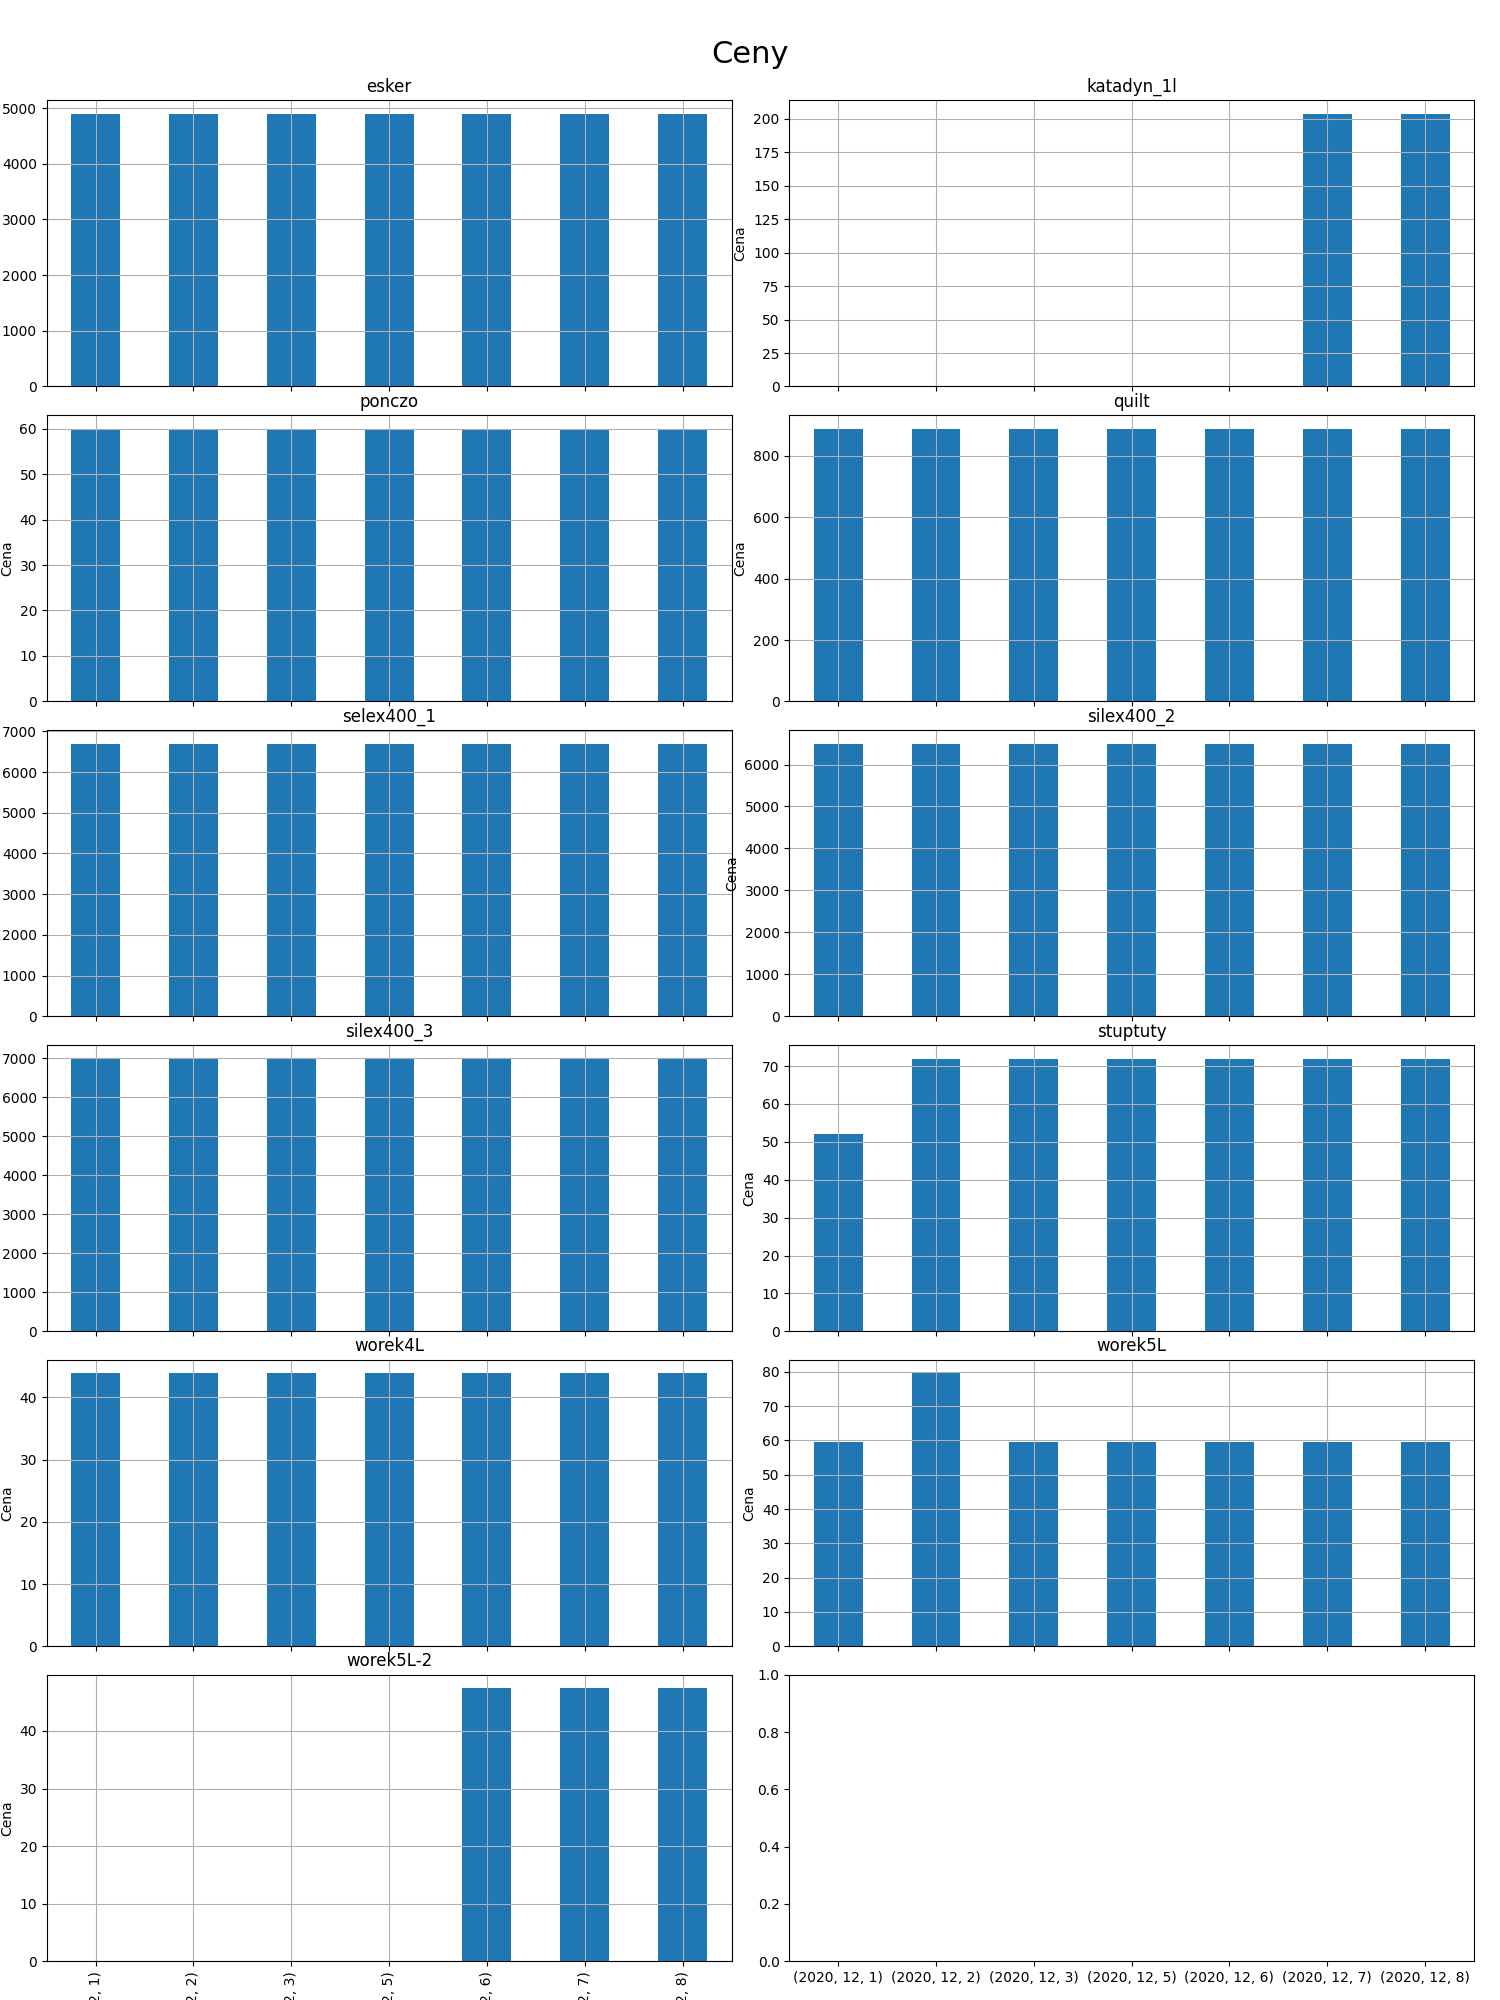
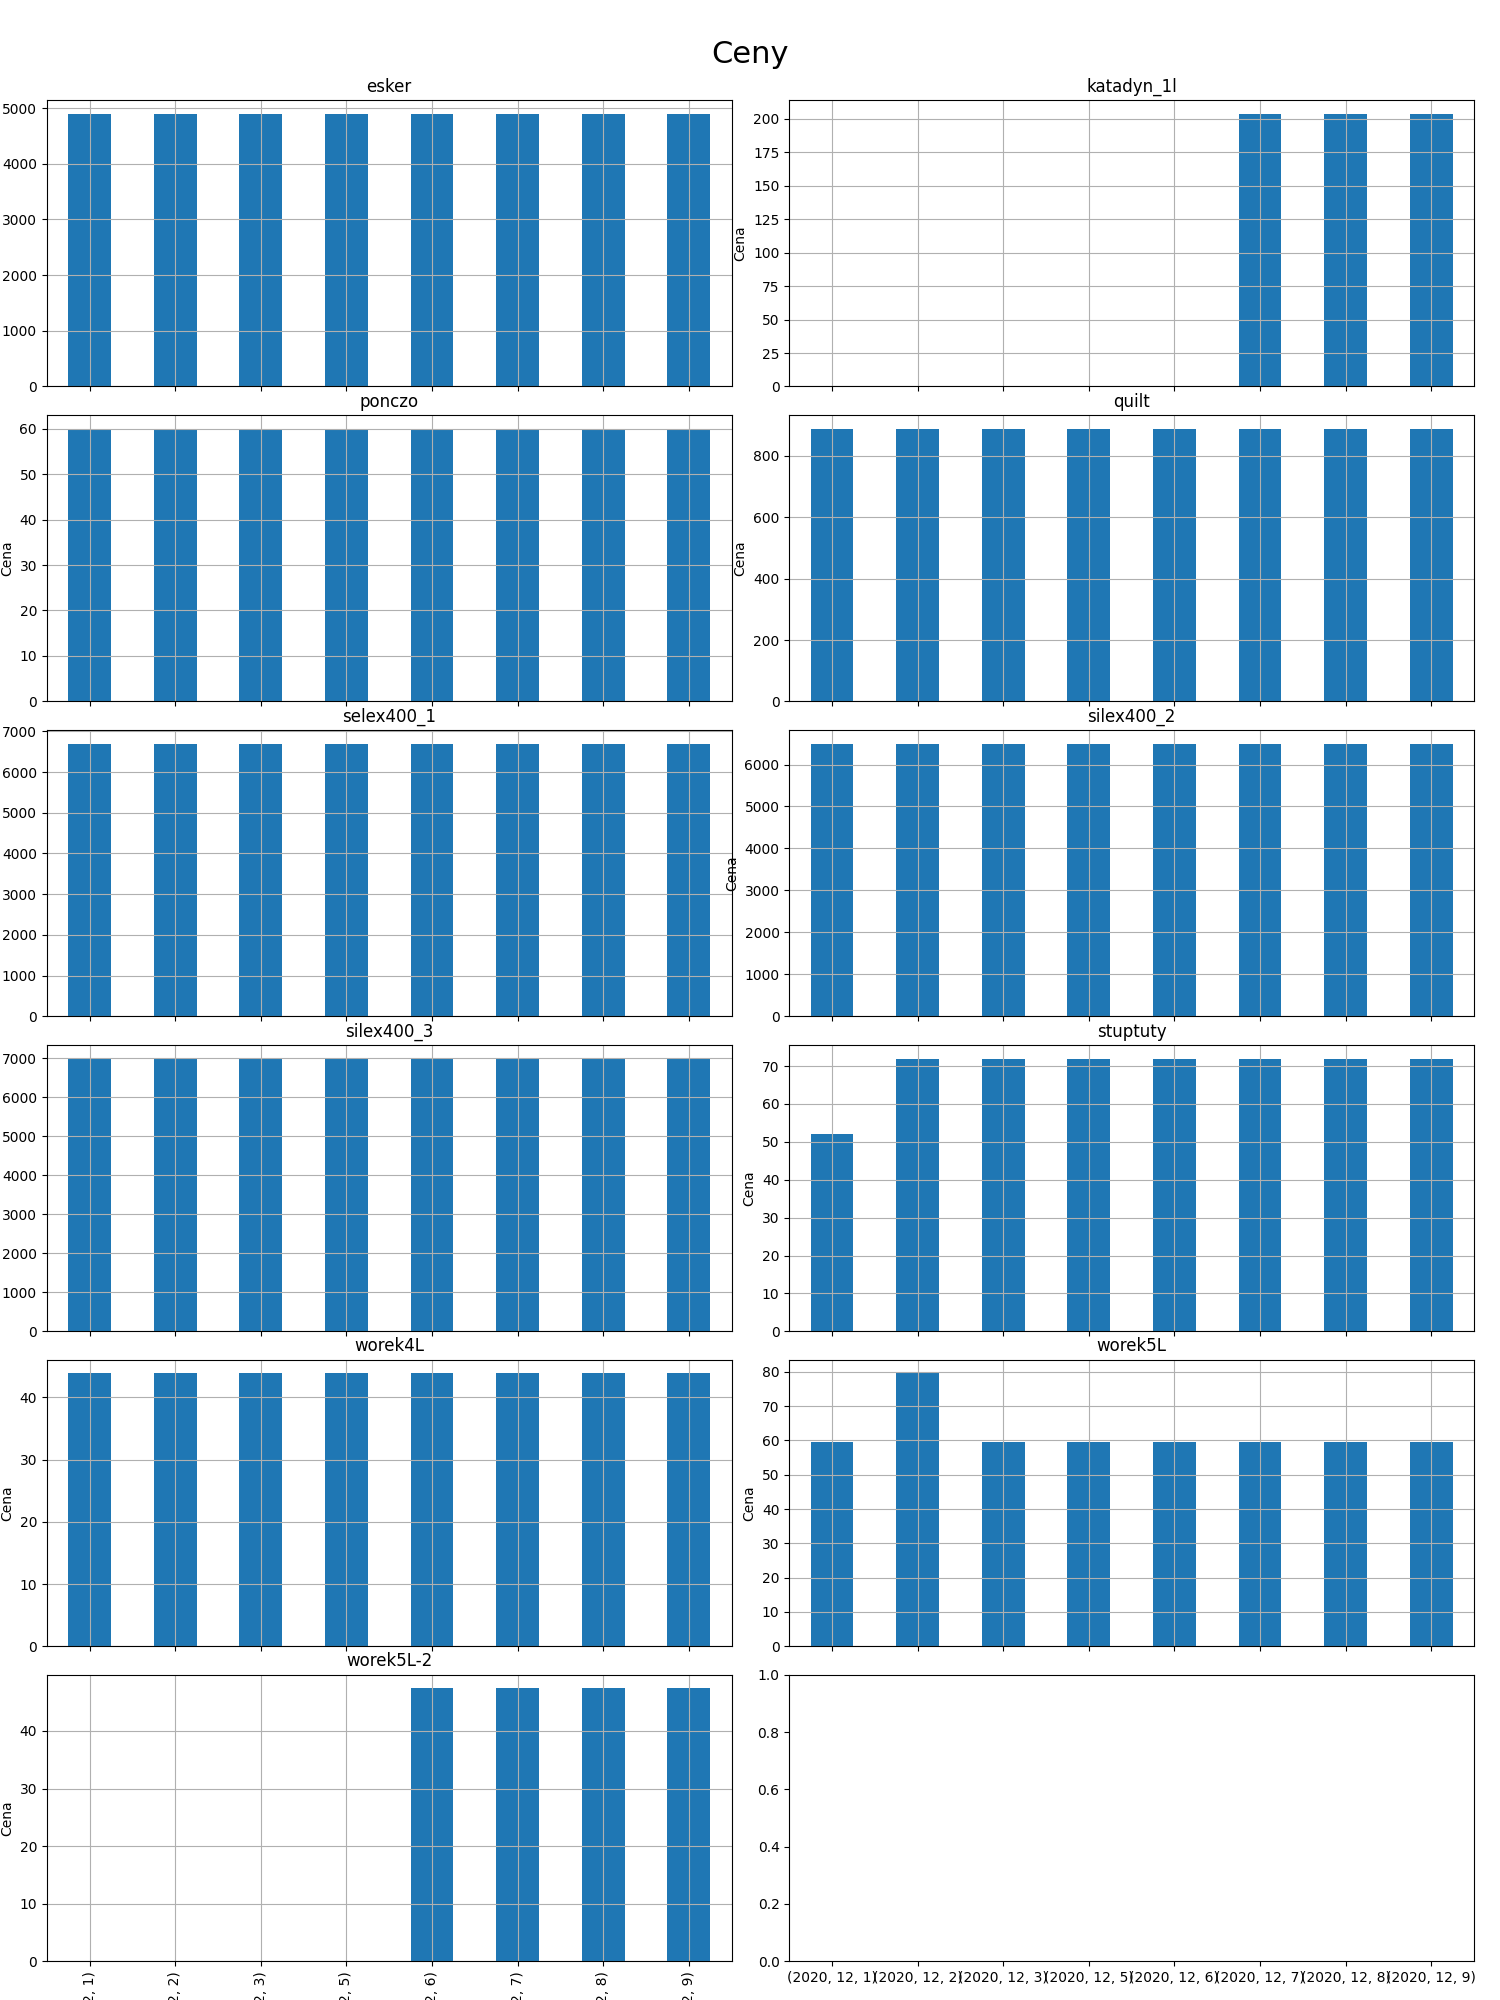
na pi

diff --git a/mail.html b/mail.html
@@ -109,8 +109,8 @@
   </thead>
   <tbody>
     <tr>
-      <th rowspan="7" valign="top">2020</th>
-      <th rowspan="7" valign="top">12</th>
+      <th rowspan="8" valign="top">2020</th>
+      <th rowspan="8" valign="top">12</th>
       <th>1</th>
       <td>4899.0</td>
       <td>NaN</td>
@@ -196,6 +196,20 @@
     </tr>
     <tr>
       <th>8</th>
+      <td>4899.0</td>
+      <td>203.99</td>
+      <td>59.99</td>
+      <td>889.0</td>
+      <td>6699.0</td>
+      <td>6499.0</td>
+      <td>6999.0</td>
+      <td>71.99</td>
+      <td>43.86</td>
+      <td>59.49</td>
+      <td>47.39</td>
+    </tr>
+    <tr>
+      <th>9</th>
       <td>4899.0</td>
       <td>203.99</td>
       <td>59.99</td>
